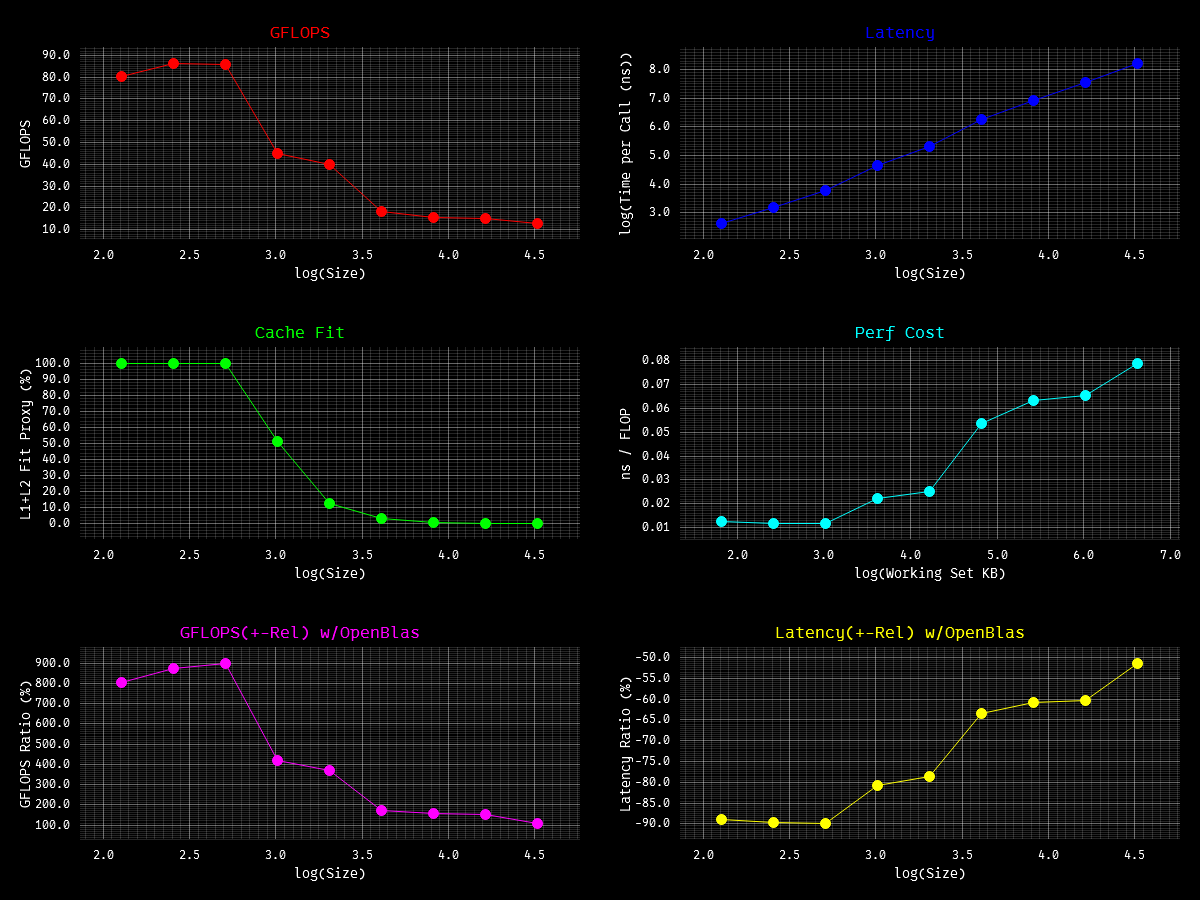
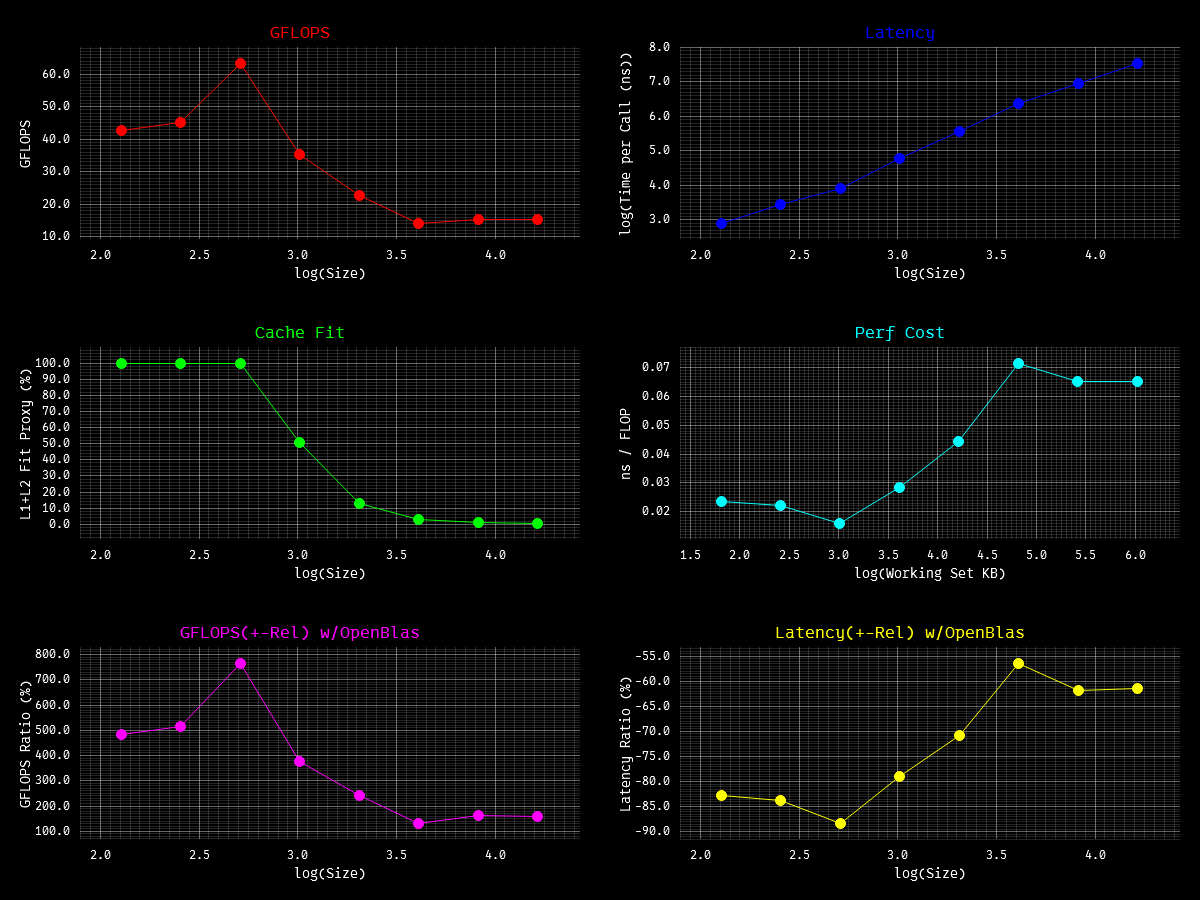
feat: add `gemm` bench and update deps

diff --git a/bench/bencher.rs b/bench/bencher.rs
@@ -2,9 +2,10 @@ mod harness;
 mod utils;
 
 use crate::harness::{MetricSet, run_bench};
-use crate::utils::{axpy_ob, dot_ob, gemv_ob};
+use crate::utils::{axpy_ob, dot_ob, gemm_ob, gemv_ob};
 use blas_rs::lvl1::{axpy, axpy_unsafe, dot, dot_unsafe};
 use blas_rs::lvl2::gemv;
+use blas_rs::lvl3::gemm;
 use blas_rs::utils::*;
 use std::error::Error;
 #[allow(unused)]
@@ -134,7 +135,7 @@ fn main() {
 
     // BENCH TOTAL `target_time` = (sample_len * no of bench) seconds
     let target_time = TAU; // big enough to run least some runs in largest samples
-    let size_sample = [128, 256, 512, 1024, 2048, 4096, 8192, 16384, 32768];
+    let size_sample = [128, 256, 512, 1024, 2048, 4096, 8192, 16384];
 
     let plot_path = Path::new("./bench/plot");
 
@@ -144,7 +145,7 @@ fn main() {
         .to_lowercase();
 
     let kernels: Vec<&str> = if kernel == "all" {
-        vec!["axpy", "dot", "gemv", "gemv_t"] // order
+        vec!["axpy", "dot", "gemv", "gemv_t", "gemm"] // order
     } else {
         kernel.split(',').collect()
     };
@@ -166,6 +167,10 @@ fn main() {
             "gemv_t" => {
                 println!("Running GEMV Transposed benchmark...");
                 bench_gemv_t(&size_sample, target_time, plot_path)
+            }
+            "gemm" => {
+                println!("Running GEMM benchmark...");
+                bench_gemm_f_f(&size_sample, target_time, plot_path)
             }
             _ => {
                 eprintln!(
@@ -245,7 +250,7 @@ fn bench_axpy(size_sample: &[usize], target_time: f64, plot_path: &Path) {
     metrics_collector.finalize(&mut bench_metrics);
 
     match plot_bench(&bench_metrics, &plot_path.join("axpy.png")) {
-        Ok(_) => println!("Exported"),
+        Ok(_) => println!(),
         Err(err) => {
             eprintln!("failed to render benchmark plot: {err}");
         }
@@ -324,7 +329,7 @@ fn bench_dot(size_sample: &[usize], target_time: f64, plot_path: &Path) {
     metrics_collector.finalize(&mut metrics);
 
     match plot_bench(&metrics, &plot_path.join("dot.png")) {
-        Ok(_) => println!("Exported"),
+        Ok(_) => println!(),
         Err(err) => {
             eprintln!("failed to render benchmark plot: {err}");
         }
@@ -434,7 +439,7 @@ fn bench_gemv(size_sample: &[usize], target_time: f64, plot_path: &Path) {
     metrics_collector.finalize(&mut metrics);
 
     match plot_bench(&metrics, &plot_path.join("gemv.png")) {
-        Ok(_) => println!("Exported"),
+        Ok(_) => println!(),
         Err(err) => {
             eprintln!("failed to render benchmark plot: {err}");
         }
@@ -543,14 +548,120 @@ fn bench_gemv_t(size_sample: &[usize], target_time: f64, plot_path: &Path) {
     metrics_collector.finalize(&mut metrics);
 
     match plot_bench(&metrics, &plot_path.join("gemv_t.png")) {
-        Ok(_) => println!("Exported"),
+        Ok(_) => println!(),
         Err(err) => {
             eprintln!("failed to render benchmark plot: {err}");
         }
     }
 }
 
-#[inline(always)]
+// TODO: stuck!!! fix later
+fn bench_gemm_f_f(size_sample: &[usize], target_time: f64, plot_path: &Path) {
+    let mut noise = Noise::init();
+    let mut metrics: Vec<BenchMetrics> = Vec::new();
+    let mut metrics_collector = MetricSet::new();
+
+    for &i in size_sample {
+        let mut a_buf = vec![0.0f32; i * i];
+        let mut x_buf = vec![0.0f32; i * i];
+        let mut y1_buf = vec![0.0f32; i * i];
+        let mut y2_buf = vec![0.0f32; i * i];
+
+        black_box(&mut a_buf);
+        black_box(&mut x_buf);
+        black_box(&mut y1_buf);
+        black_box(&mut y2_buf);
+
+        noise.fill_f32(&mut a_buf);
+        noise.fill_f32(&mut x_buf);
+
+        y2_buf.fill(1.0);
+        let rc = run_bench(
+            || {
+                gemm(
+                    i, // m
+                    i, // n
+                    i, // k
+                    5.0,
+                    &a_buf, // matrix A
+                    i,      // lda
+                    &x_buf, // matrix B
+                    i,      // ldb
+                    7.0,
+                    &mut y1_buf, // result C
+                    i,           // ldc
+                    false,
+                    false,
+                );
+            },
+            target_time,
+        );
+
+        y2_buf.fill(1.0);
+        let rc_ob = run_bench(
+            || {
+                gemm_ob(
+                    i as i32, // m
+                    i as i32, // n
+                    i as i32, // k
+                    5.0,
+                    &a_buf,   // matrix A
+                    i as i32, // lda
+                    &x_buf,   // matrix B
+                    i as i32, // ldb
+                    7.0,
+                    &mut y2_buf, // result C
+                    i as i32,    // ldc
+                    false,
+                    false,
+                );
+            },
+            target_time,
+        );
+
+        let working_kbyte =
+            (2.0 * i.pow(2) as f64 + 3.0 * i.pow(2) as f64) * size_of::<f32>() as f64 / 1024.0;
+        let total_flops = 2.0 * i.pow(3) as f64 * rc;
+        let total_flops_ob = 2.0 * i.pow(3) as f64 * rc_ob;
+
+        let (gflops, gflops_ob, latency, latency_ob, cache_eff, ns_per_flop) = MetricSet::derive(
+            rc,
+            rc_ob,
+            target_time,
+            total_flops,
+            total_flops_ob,
+            working_kbyte,
+        );
+
+        let gflops_rel = (gflops - gflops_ob) / gflops_ob * 100.0;
+        let latency_rel = (latency - latency_ob) / latency_ob * 100.0;
+
+        metrics_collector.collect(
+            ((i as f64).log10(), gflops),
+            ((i as f64).log10(), latency.log10()),
+            ((i as f64).log10(), cache_eff),
+            (working_kbyte.log10(), ns_per_flop),
+            ((i as f64).log10(), gflops_rel),
+            ((i as f64).log10(), latency_rel),
+        );
+
+        noise.fill_f32(&mut a_buf);
+        noise.fill_f32(&mut x_buf);
+        y1_buf.fill(1.0);
+        y2_buf.fill(1.0);
+    }
+
+    metrics_collector.finalize(&mut metrics);
+
+    match plot_bench(&metrics, &plot_path.join("gemm_f_f.png")) {
+        Ok(_) => println!(),
+        Err(err) => {
+            eprintln!("failed to render benchmark plot: {err}");
+        }
+    }
+}
+
+#[inline]
 fn plot_bench(bench_metrics: &[BenchMetrics], output: &Path) -> Result<(), Box<dyn Error>> {
     use plotters::prelude::*;
 

diff --git a/src/lvl3.rs b/src/lvl3.rs
@@ -1,5 +1,6 @@
 use crate::lvl1::scal;
 use crate::utils::reduce_f32;
+#[allow(unused)]
 use std::arch::x86_64::{
     _MM_HINT_T0, _MM_HINT_T1, _mm_prefetch, _mm256_add_ps, _mm256_fmadd_ps, _mm256_loadu_ps,
     _mm256_mul_ps, _mm256_set1_ps, _mm256_setzero_ps, _mm256_storeu_ps,
@@ -131,16 +132,16 @@ pub fn gemm(
 
                     let mut i = 0usize;
 
-                    // prefetch & pray
-                    {
-                        // prefetch p+4, p+5, p+6, p+7
-                        for offset in 0..4 {
-                            let col_ptr = a_ptr.add((p + 4 + offset) * lda);
-                            _mm_prefetch::<_MM_HINT_T0>(col_ptr as *const i8); // prefetch the first cache line of
-                            _mm_prefetch::<_MM_HINT_T0>(col_ptr.add(16) as *const i8); // next cache line
-                            _mm_prefetch::<_MM_HINT_T1>(col_ptr.add(32) as *const i8); // maybe to L2
-                        }
-                    }
+                    // // prefetch & pray
+                    // {
+                    //     // prefetch p+4, p+5, p+6, p+7
+                    //     for offset in 0..4 {
+                    //         let col_ptr = a_ptr.add((p + 4 + offset) * lda);
+                    //         _mm_prefetch::<_MM_HINT_T0>(col_ptr as *const i8); // prefetch the first cache line of
+                    //         _mm_prefetch::<_MM_HINT_T0>(col_ptr.add(16) as *const i8); // next cache line
+                    //         _mm_prefetch::<_MM_HINT_T1>(col_ptr.add(32) as *const i8); // maybe to L2
+                    //     }
+                    // }
 
                     // inner M Loop; Sequential memory access for Matrix A
                     while i + 16 <= m {

diff --git a/bench/utils.rs b/bench/utils.rs
@@ -1,4 +1,4 @@
-use blas::{saxpy, sdot, sgemv};
+use blas::{saxpy, sdot, sgemm, sgemv};
 use blas_rs::utils::get_cache_size;
 use std::sync::LazyLock;
 
@@ -47,6 +47,42 @@ pub fn gemv_ob(
             beta,
             y,
             incy,
+        );
+    }
+}
+
+#[inline(always)]
+#[allow(clippy::too_many_arguments)]
+pub fn gemm_ob(
+    m: i32,
+    n: i32,
+    k: i32,
+    alpha: f32,
+    a: &[f32],
+    lda: i32,
+    b: &[f32],
+    ldb: i32,
+    beta: f32,
+    c: &mut [f32],
+    ldc: i32,
+    is_trans_a: bool,
+    is_trans_b: bool,
+) {
+    unsafe {
+        sgemm(
+            if is_trans_a { b'T' } else { b'N' },
+            if is_trans_b { b'T' } else { b'N' },
+            m,
+            n,
+            k,
+            alpha,
+            a,
+            lda,
+            b,
+            ldb,
+            beta,
+            c,
+            ldc,
         );
     }
 }
